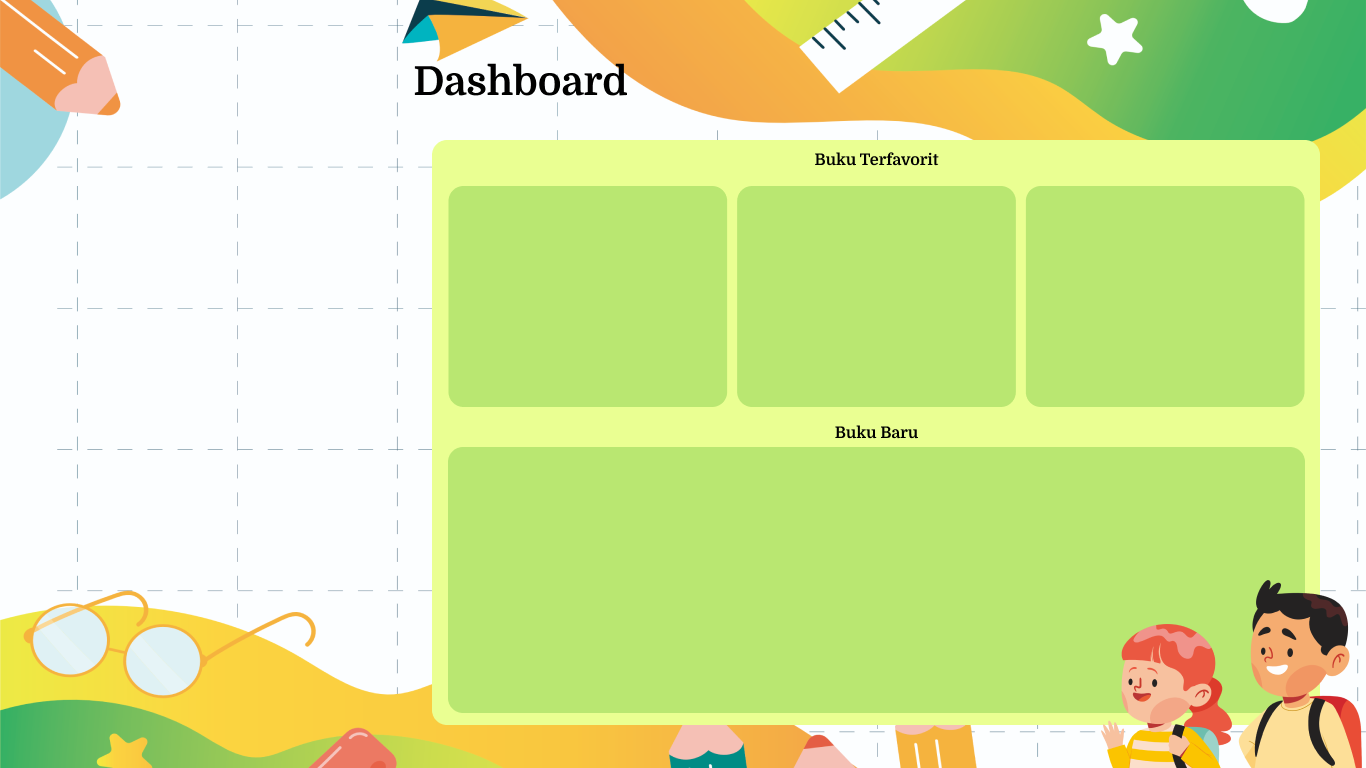
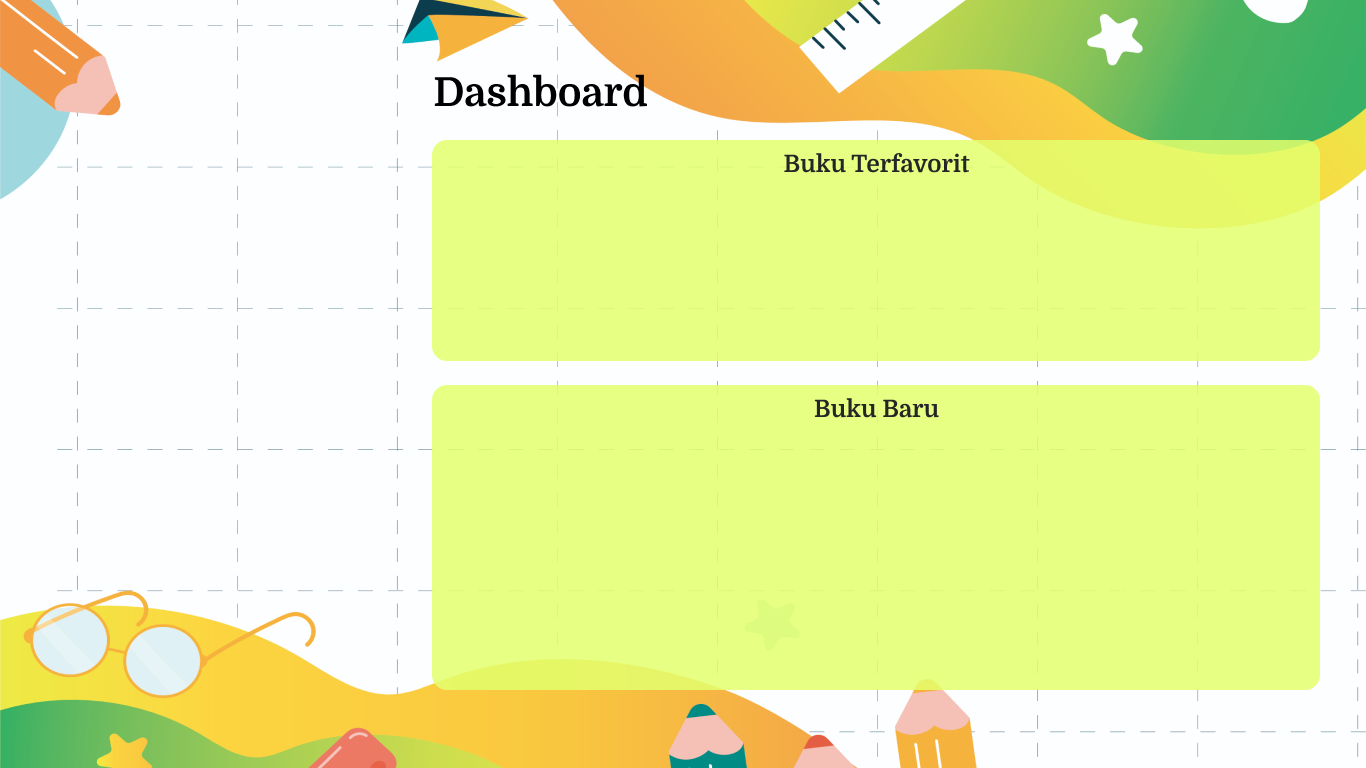
Add Dashboard Siswa

diff --git a/src/view/layouts/DashboardSiswaView.java b/src/view/layouts/DashboardSiswaView.java
@@ -1,0 +1,236 @@
+/*
+ * Click nbfs://nbhost/SystemFileSystem/Templates/Licenses/license-default.txt to change this license
+ * Click nbfs://nbhost/SystemFileSystem/Templates/GUIForms/JInternalFrame.java to edit this template
+ */
+package view.layouts;
+
+import customUI.TableCustom;
+import entity.Buku;
+import java.sql.PreparedStatement;
+import java.sql.ResultSet;
+import java.sql.SQLException;
+import java.text.SimpleDateFormat;
+import javax.swing.BorderFactory;
+import javax.swing.plaf.basic.BasicInternalFrameUI;
+import javax.swing.table.DefaultTableModel;
+import repository.BukuRepository;
+import repository.Repository;
+import static repository.Repository.conn;
+import util.ViewUtil;
+import view.popup.PopupViewDetailBuku;
+
+/**
+ *
+ * @author Hafidz Fadhillah
+ */
+public class DashboardSiswaView extends javax.swing.JInternalFrame {
+
+    private Repository<Buku> bkuRepo = new BukuRepository();
+
+    SimpleDateFormat sdf = new SimpleDateFormat("yyyy");
+
+    /**
+     * Creates new form TambahBuku
+     */
+    public DashboardSiswaView() {
+        initComponents();
+        this.setBorder(BorderFactory.createEmptyBorder(0, 0, 0, 0));
+        BasicInternalFrameUI BUI = (BasicInternalFrameUI) this.getUI();
+        BUI.setNorthPane(null);
+
+        loadDataTabelFavorit();
+        loadDataTabelBukuBaru();
+
+        TableCustom.apply(TabelBukuFavorit, TableCustom.TableType.DEFAULT);
+        TableCustom.apply(TabelBukuBaru, TableCustom.TableType.DEFAULT);
+    }
+
+    /**
+     * This method is called from within the constructor to initialize the form.
+     * WARNING: Do NOT modify this code. The content of this method is always
+     * regenerated by the Form Editor.
+     */
+    @SuppressWarnings("unchecked")
+    // <editor-fold defaultstate="collapsed" desc="Generated Code">//GEN-BEGIN:initComponents
+    private void initComponents() {
+
+        TabelBukuFavorit = new javax.swing.JScrollPane();
+        Tabel = new javax.swing.JTable();
+        TabelBukuBaru = new javax.swing.JScrollPane();
+        Tabel1 = new javax.swing.JTable();
+        background = new javax.swing.JLabel();
+
+        setBorder(null);
+        setPreferredSize(new java.awt.Dimension(1366, 768));
+        getContentPane().setLayout(null);
+
+        Tabel.setFont(new java.awt.Font("Calisto MT", 0, 14)); // NOI18N
+        Tabel.setModel(new javax.swing.table.DefaultTableModel(
+            new Object [][] {
+
+            },
+            new String [] {
+                "Data", "Data", "Data", "Data"
+            }
+        ));
+        Tabel.getTableHeader().setReorderingAllowed(false);
+        Tabel.addMouseListener(new java.awt.event.MouseAdapter() {
+            public void mouseClicked(java.awt.event.MouseEvent evt) {
+                TabelMouseClicked(evt);
+            }
+        });
+        TabelBukuFavorit.setViewportView(Tabel);
+
+        getContentPane().add(TabelBukuFavorit);
+        TabelBukuFavorit.setBounds(445, 185, 860, 160);
+
+        Tabel1.setFont(new java.awt.Font("Calisto MT", 0, 14)); // NOI18N
+        Tabel1.setModel(new javax.swing.table.DefaultTableModel(
+            new Object [][] {
+
+            },
+            new String [] {
+                "Data", "Data", "Data", "Data"
+            }
+        ));
+        Tabel1.getTableHeader().setReorderingAllowed(false);
+        Tabel1.addMouseListener(new java.awt.event.MouseAdapter() {
+            public void mouseClicked(java.awt.event.MouseEvent evt) {
+                Tabel1MouseClicked(evt);
+            }
+        });
+        TabelBukuBaru.setViewportView(Tabel1);
+
+        getContentPane().add(TabelBukuBaru);
+        TabelBukuBaru.setBounds(445, 430, 860, 245);
+
+        background.setIcon(new javax.swing.ImageIcon(getClass().getResource("/assets/layouts/Dashboard Siswa.png"))); // NOI18N
+        getContentPane().add(background);
+        background.setBounds(0, 0, 1366, 768);
+
+        setBounds(0, 0, 1366, 768);
+    }// </editor-fold>//GEN-END:initComponents
+
+    private void TabelMouseClicked(java.awt.event.MouseEvent evt) {//GEN-FIRST:event_TabelMouseClicked
+        // TODO add your handling code here:
+        int row = Tabel.getSelectedRow();
+        String value = Tabel.getModel().getValueAt(row, 6).toString();
+        Buku buku = bkuRepo.get(Integer.valueOf(value));
+
+        new PopupViewDetailBuku(buku).setVisible(true);
+    }//GEN-LAST:event_TabelMouseClicked
+
+    private void Tabel1MouseClicked(java.awt.event.MouseEvent evt) {//GEN-FIRST:event_Tabel1MouseClicked
+        // TODO add your handling code here:
+        int row = Tabel1.getSelectedRow();
+        String value = Tabel1.getModel().getValueAt(row, 6).toString();
+        Buku buku = bkuRepo.get(Integer.valueOf(value));
+
+        new PopupViewDetailBuku(buku).setVisible(true);
+    }//GEN-LAST:event_Tabel1MouseClicked
+
+    private void loadDataTabelFavorit() {
+        int no = 1;
+        DefaultTableModel model = new DefaultTableModel() {
+            @Override
+            public boolean isCellEditable(int row, int column) {
+                return false; // Disable cell editing
+            }
+        };
+
+        model.addColumn("No");
+        model.addColumn("Nama Buku");
+        model.addColumn("Pengarang");
+        model.addColumn("Klasifikasi");
+        model.addColumn("Penerbit");
+        model.addColumn("Jumlah Peminjam");
+        model.addColumn("ID");
+
+        String sql = "SELECT detail_transaksi.kode_buku, buku.judul_buku, buku.nama_pengarang, klasifikasi.nama_klasifikasi, penerbit.penerbit, "
+                + "COUNT(*) AS book_count FROM detail_transaksi "
+                + "INNER JOIN buku ON detail_transaksi.kode_buku = buku.kode_buku "
+                + "INNER JOIN klasifikasi ON buku.kode_ddc = klasifikasi.id_klasifikasi "
+                + "INNER JOIN penerbit ON penerbit.kode_penerbit = buku.kode_penerbit "
+                + "GROUP BY detail_transaksi.kode_buku, buku.judul_buku "
+                + "ORDER BY COUNT(*) DESC";
+
+        try (PreparedStatement statement = conn.prepareStatement(sql)) {
+            ResultSet results = statement.executeQuery();
+
+            while (results.next()) {
+                model.addRow(new Object[]{
+                    no++,
+                    results.getString("buku.judul_buku"),
+                    results.getString("buku.nama_pengarang"),
+                    results.getString("klasifikasi.nama_klasifikasi"),
+                    results.getString("penerbit.penerbit"),
+                    results.getInt("book_count"),
+                    results.getInt("detail_transaksi.kode_buku")
+                });
+            }
+
+            Tabel.setModel(model);
+            ViewUtil.hideTableColumn(Tabel, 6);
+            customStyleTable();
+        } catch (SQLException e) {
+            e.printStackTrace();
+        }
+    }
+
+    private void loadDataTabelBukuBaru() {
+        int no = 1;
+        DefaultTableModel model = new DefaultTableModel() {
+            @Override
+            public boolean isCellEditable(int row, int column) {
+                return false; // Disable cell editing
+            }
+        };
+
+        model.addColumn("No");
+        model.addColumn("Nama Buku");
+        model.addColumn("Pengarang");
+        model.addColumn("Klasifikasi");
+        model.addColumn("Penerbit");
+        model.addColumn("Tahun Terbit");
+        model.addColumn("ID");
+
+        String sql = "SELECT buku.*, penerbit.*, klasifikasi.* FROM buku "
+                + "INNER JOIN penerbit ON penerbit.kode_penerbit = buku.kode_penerbit "
+                + "INNER JOIN klasifikasi ON klasifikasi.id_klasifikasi = buku.kode_ddc ORDER BY buku.kode_buku DESC";
+
+        try (PreparedStatement statement = conn.prepareStatement(sql)) {
+            ResultSet results = statement.executeQuery();
+
+            while (results.next()) {
+                model.addRow(new Object[]{
+                    no++,
+                    results.getString("judul_buku"),
+                    results.getString("nama_pengarang"),
+                    results.getString("nama_klasifikasi"),
+                    results.getString("penerbit"),
+                    sdf.format(results.getDate("tahun_terbit")),
+                    results.getInt("kode_buku")
+                });
+            }
+
+            Tabel1.setModel(model);
+            ViewUtil.hideTableColumn(Tabel1, 6);
+            customStyleTable();
+        } catch (SQLException e) {
+            e.printStackTrace();
+        }
+    }
+
+    private void customStyleTable() {
+        Tabel.getColumnModel().getColumn(0).setMaxWidth(40);
+        Tabel1.getColumnModel().getColumn(0).setMaxWidth(40);
+    }
+
+    // Variables declaration - do not modify//GEN-BEGIN:variables
+    private javax.swing.JTable Tabel;
+    private javax.swing.JTable Tabel1;
+    private javax.swing.JScrollPane TabelBukuBaru;
+    private javax.swing.JScrollPane TabelBukuFavorit;
+    private javax.swing.JLabel background;
+    // End of variables declaration//GEN-END:variables
+}

diff --git a/src/view/pages/DashboardSiswa.java b/src/view/pages/DashboardSiswa.java
@@ -6,6 +6,7 @@ package view.pages;
 
 import javax.swing.ImageIcon;
 import view.layouts.DaftarBukuSiswa;
+import view.layouts.DashboardSiswaView;
 import view.layouts.TambahPinjamanSiswa;
 
 /**
@@ -116,6 +117,10 @@ public class DashboardSiswa extends javax.swing.JFrame {
         btnDashboard.setIcon(new ImageIcon(getClass().getResource("/assets/layouts/Menu Dashboard.png")));
         btnDaftarBuku.setIcon(null);
         btnPinjamBuku.setIcon(null);
+
+        jDesktopPane1.removeAll();
+        DashboardSiswaView dsv = new DashboardSiswaView();
+        jDesktopPane1.add(dsv).setVisible(true);
     }//GEN-LAST:event_btnDashboardMouseClicked
 
     private void btnDaftarBukuMouseClicked(java.awt.event.MouseEvent evt) {//GEN-FIRST:event_btnDaftarBukuMouseClicked
@@ -187,6 +192,9 @@ public class DashboardSiswa extends javax.swing.JFrame {
     private void menuAktifPertama() {
         btnDashboard.setIcon(new ImageIcon(getClass().getResource("/assets/layouts/Menu Dashboard.png")));
 
+        jDesktopPane1.removeAll();
+        DashboardSiswaView dsv = new DashboardSiswaView();
+        jDesktopPane1.add(dsv).setVisible(true);
     }
 
     // Variables declaration - do not modify//GEN-BEGIN:variables
